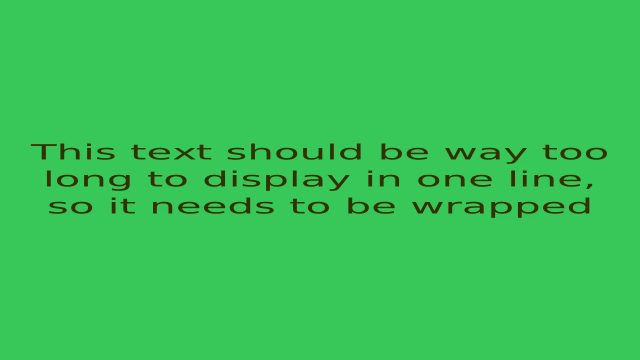
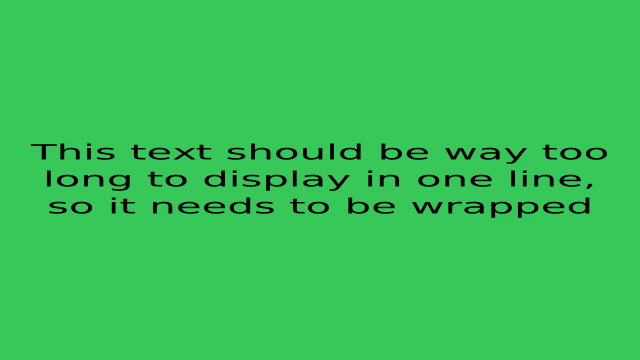
set the default color of the text to be black

diff --git a/src/lib.rs b/src/lib.rs
@@ -120,8 +120,8 @@ fn add_centralized_text(
     };
 
     // color of the text
-    let red = 50_u8;
-    let green = 50;
+    let red = 0_u8;
+    let green = 0;
     let blue = 0;
     let alpha = 255;
 
